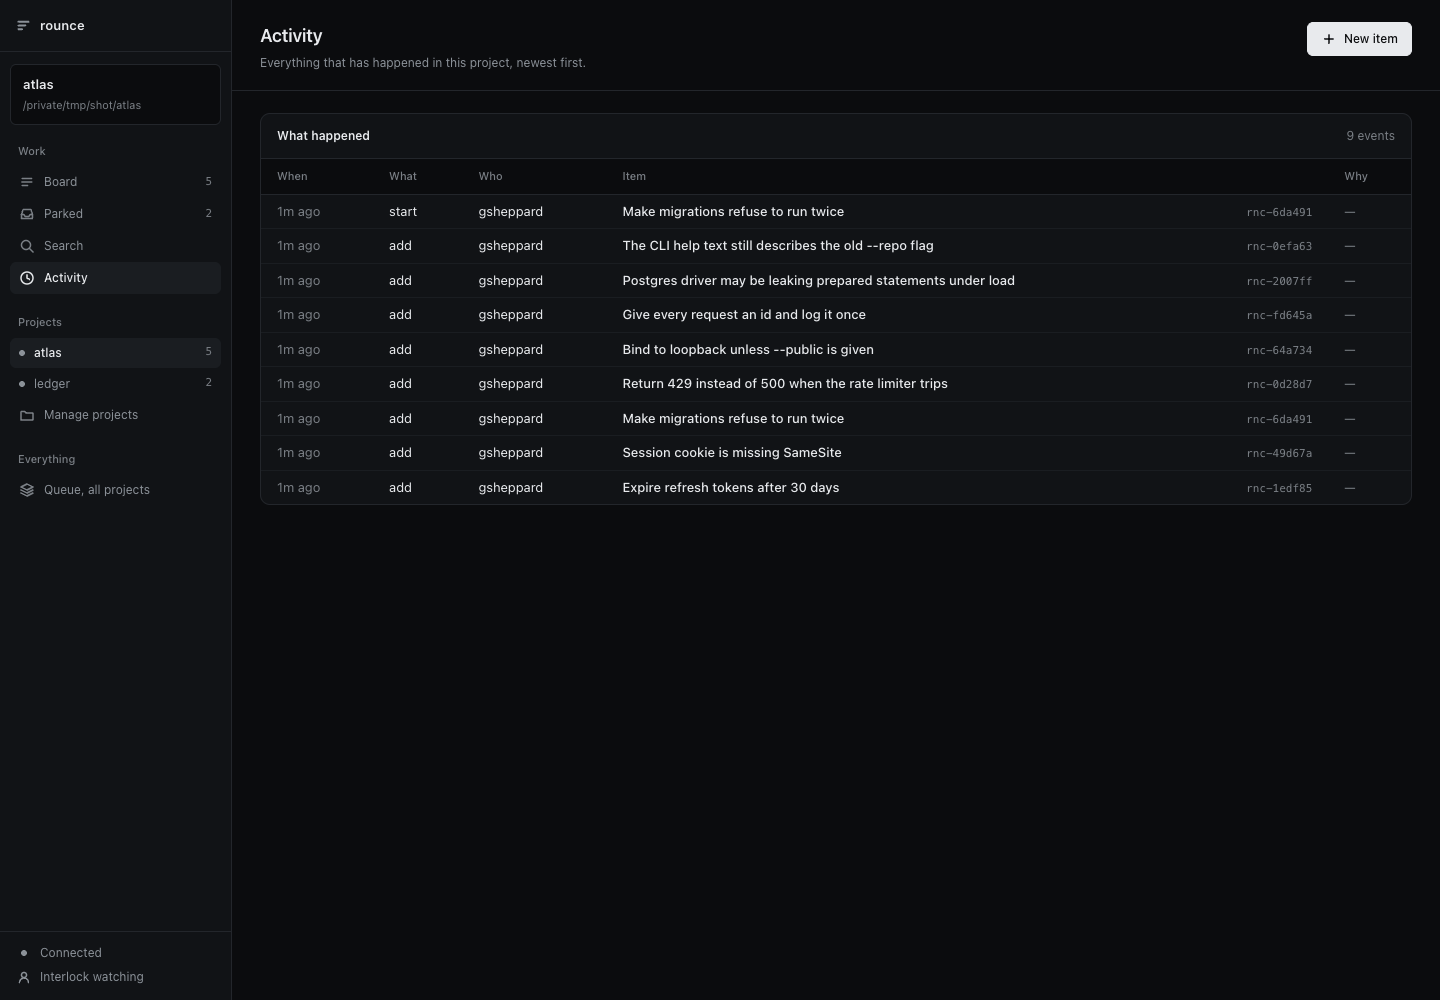
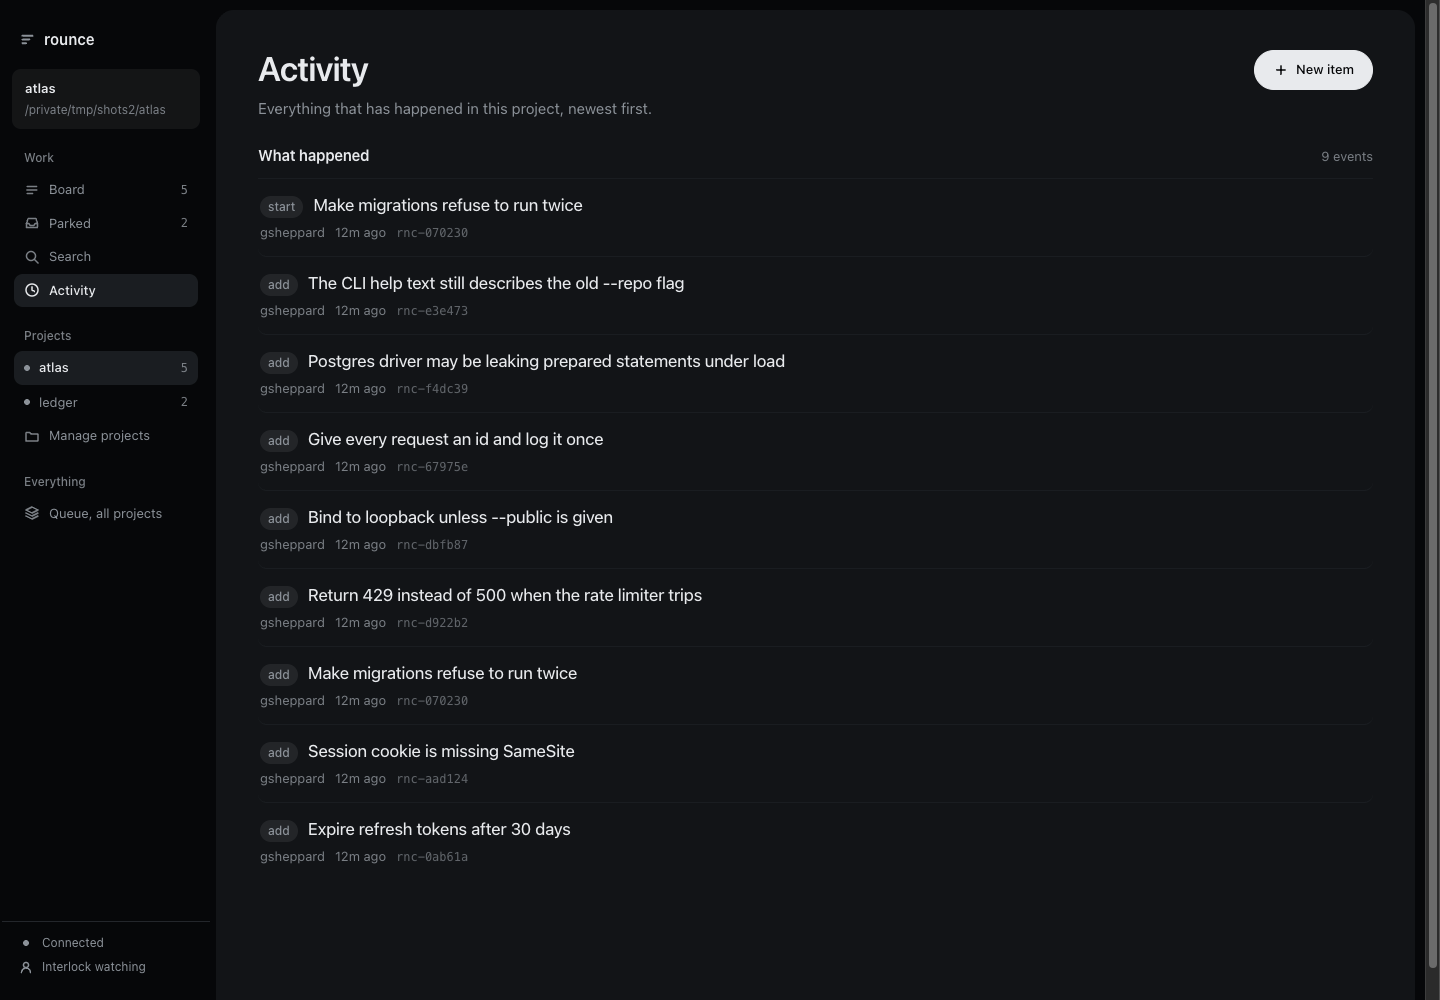
style(dash): one row shape across every page, and no native checkboxes
Finishing what the board started. Search, activity, the pen, the merged
cross-project queue and the project registry were all still tables with
header rows, so the board spoke one language and every other page spoke
the old one -- which is worse than either, because it reads as a redesign
somebody abandoned halfway.

They are the same row now: the figure, the title, and one quiet second line
carrying whatever that page needs -- the field a search matched and the text
around it, the actor and reason on an event, the directory and counts on a
project. That is the point of having one row shape: the second line varies,
the shape does not.

Three tables are left and they stay: the item's Detail block, which is a
definition list, its History, and the tree -- where the indentation IS the
structure. A table is right when the data is genuinely a grid; it was wrong
for five lists of objects.

Checkboxes got the treatment selects got earlier: the native control on a
dark page is a light square belonging to no design here. The tick is two
rotated borders, since  forbids fetching an image for one.

diff --git a/internal/dash/templates/projects.html b/internal/dash/templates/projects.html
@@ -12,41 +12,32 @@
     <h2>Tracked projects</h2>
     <span class="hint">{{len .Data}} registered</span>
   </div>
-  <div class="table-wrap">
-  <table>
-  <thead><tr><th>Project</th><th>Directory</th><th class="right">Workable</th><th class="right">Parked</th><th class="right">Actions</th></tr></thead>
-  <tbody>
-  {{range .Data}}<tr>
-  <td>
-    <div class="who">
-      <span class="avatar">{{initial .Name}}</span>
-      <div>
-        <b>{{.Name}}</b>{{if .Active}} {{template "state-tag" (tag "workable" "open")}}{{end}}
-        {{if .Err}}<div class="sub">{{.Err}}</div>{{end}}
-      </div>
-    </div>
-  </td>
-  <td class="path">{{.Dir}}</td>
-  <td class="right score">{{if .Err}}<span class="faint">—</span>{{else}}{{.Ready}}{{end}}</td>
-  <td class="right">{{if .Err}}<span class="faint">—</span>{{else}}{{.Backlog}}{{end}}</td>
-  <td class="right"><div class="acts">
-    <a class="btn btn-sm" href="{{if .Active}}/{{else}}/p/{{.Name}}{{end}}">Open board</a>
-    {{if $p.Writable}}<form method="post" action="/do/project-forget">
-      <input type="hidden" name="csrf" value="{{$p.CSRF}}">
+  <ol class="queue">
+  {{range .Data}}<li class="qrow">
+    <span class="avatar">{{initial .Name}}</span>
+    <span class="qbody">
+      <span class="qline">
+        <span class="title">{{.Name}}</span>
+        {{if .Active}}{{template "state-tag" (tag "workable" "open")}}{{end}}
+      </span>
+      <span class="qmeta">
+        <span class="path">{{.Dir}}</span>
+        {{if .Err}}<span class="qwhy">{{.Err}}</span>
+        {{else}}<span>{{.Ready}} workable · {{.Backlog}} parked</span>{{end}}
+      </span>
+    </span>
+    <span class="qacts">
+      <a class="btn btn-sm" href="{{if .Active}}/{{else}}/p/{{.Name}}{{end}}">Open board</a>
+      {{if $p.Writable}}<form method="post" action="/do/project-forget">
+        <input type="hidden" name="csrf" value="{{$p.CSRF}}">
 <input type="hidden" name="project" value="{{$p.Project}}"><input type="hidden" name="prefix" value="{{$p.Prefix}}">
-      <input type="hidden" name="path" value="{{.Path}}">
-      <button type="submit" class="btn btn-sm btn-danger">Remove</button>
-    </form>{{end}}
-  </div></td>
-  </tr>
-  {{else}}<tr><td colspan="5"><div class="blank">
-    {{template "icon-folder"}}
-    <h3>No projects registered</h3>
-    <p>Run <code>rounce init</code> in a repository and it registers itself. Or add one below.</p>
-  </div></td></tr>
-  {{end}}</tbody>
-  </table>
-  </div>
+        <input type="hidden" name="path" value="{{.Path}}">
+        <button type="submit" class="btn btn-sm btn-danger">Remove</button>
+      </form>{{end}}
+    </span>
+  </li>
+  {{else}}<li class="qempty">No projects registered. Run <code>rounce init</code> in a repository and it registers itself, or add one below.</li>
+  {{end}}</ol>
 </div>
 
 {{if $p.Writable}}

diff --git a/internal/dash/testdata/tree.golden.html b/internal/dash/testdata/tree.golden.html
@@ -850,6 +850,47 @@ tbody tr:hover td { background: color-mix(in srgb, var(--fg) 4%, transparent); }
   }
   .qrow .qacts { opacity: 1; }
 }
+
+/* Row variants for the pages that are not the board: a group heading in the
+   pen, an event kind in the log, the repository name in the merged queue,
+   and the matched text under a search hit. Same row, different second line
+   -- which is the point of having one row shape at all. */
+.qgroup {
+  list-style: none; padding: 22px 2px 8px;
+  font-size: var(--text-sm); color: var(--fg-faint);
+}
+.qempty { list-style: none; padding: 20px 2px; color: var(--fg-faint); font-size: var(--text-sm); }
+.qline { display: flex; align-items: baseline; gap: 10px; flex-wrap: wrap; }
+.qkind {
+  font-size: var(--text-xs); font-weight: 500; color: var(--fg-muted);
+  background: color-mix(in srgb, var(--fg) 8%, transparent);
+  padding: 2px 8px; border-radius: 999px; flex: none;
+}
+.qwhy { color: var(--fg-muted); }
+.qrepo { color: var(--fg-muted); font-weight: 500; }
+.qsnip {
+  margin-top: 6px; font-family: var(--mono); font-size: var(--text-sm);
+  color: var(--fg-faint); line-height: 1.5;
+}
+
+/* A native checkbox is the same problem the native select was: on a dark
+   page the OS draws a light square that belongs to no design here. */
+input[type="checkbox"] {
+  appearance: none; -webkit-appearance: none;
+  width: 16px; height: 16px; flex: none; padding: 0;
+  border: 1.5px solid var(--fg-faint); border-radius: 5px;
+  background: none; cursor: pointer; position: relative;
+  transition: background var(--tempo) ease, border-color var(--tempo) ease;
+}
+input[type="checkbox"]:checked { background: var(--fg); border-color: var(--fg); }
+/* The tick is two borders rotated, for the same reason the select caret is:
+   DASH-05 forbids fetching an image for it. */
+input[type="checkbox"]:checked::after {
+  content: ""; position: absolute; left: 4.5px; top: 1px;
+  width: 4px; height: 8px; border: solid var(--bg);
+  border-width: 0 2px 2px 0; transform: rotate(45deg);
+}
+label.inline { display: inline-flex; align-items: center; gap: 8px; cursor: pointer; }
 </style>
 </head>
 <body>

diff --git a/internal/dash/style.css b/internal/dash/style.css
@@ -842,3 +842,44 @@ tbody tr:hover td { background: color-mix(in srgb, var(--fg) 4%, transparent); }
   }
   .qrow .qacts { opacity: 1; }
 }
+
+/* Row variants for the pages that are not the board: a group heading in the
+   pen, an event kind in the log, the repository name in the merged queue,
+   and the matched text under a search hit. Same row, different second line
+   -- which is the point of having one row shape at all. */
+.qgroup {
+  list-style: none; padding: 22px 2px 8px;
+  font-size: var(--text-sm); color: var(--fg-faint);
+}
+.qempty { list-style: none; padding: 20px 2px; color: var(--fg-faint); font-size: var(--text-sm); }
+.qline { display: flex; align-items: baseline; gap: 10px; flex-wrap: wrap; }
+.qkind {
+  font-size: var(--text-xs); font-weight: 500; color: var(--fg-muted);
+  background: color-mix(in srgb, var(--fg) 8%, transparent);
+  padding: 2px 8px; border-radius: 999px; flex: none;
+}
+.qwhy { color: var(--fg-muted); }
+.qrepo { color: var(--fg-muted); font-weight: 500; }
+.qsnip {
+  margin-top: 6px; font-family: var(--mono); font-size: var(--text-sm);
+  color: var(--fg-faint); line-height: 1.5;
+}
+
+/* A native checkbox is the same problem the native select was: on a dark
+   page the OS draws a light square that belongs to no design here. */
+input[type="checkbox"] {
+  appearance: none; -webkit-appearance: none;
+  width: 16px; height: 16px; flex: none; padding: 0;
+  border: 1.5px solid var(--fg-faint); border-radius: 5px;
+  background: none; cursor: pointer; position: relative;
+  transition: background var(--tempo) ease, border-color var(--tempo) ease;
+}
+input[type="checkbox"]:checked { background: var(--fg); border-color: var(--fg); }
+/* The tick is two borders rotated, for the same reason the select caret is:
+   DASH-05 forbids fetching an image for it. */
+input[type="checkbox"]:checked::after {
+  content: ""; position: absolute; left: 4.5px; top: 1px;
+  width: 4px; height: 8px; border: solid var(--bg);
+  border-width: 0 2px 2px 0; transform: rotate(45deg);
+}
+label.inline { display: inline-flex; align-items: center; gap: 8px; cursor: pointer; }

diff --git a/internal/dash/templates/all.html b/internal/dash/templates/all.html
@@ -7,29 +7,32 @@
 {{$p := .}}{{with .Data}}
 <div class="panel">
 <div class="panel-head"><h2>Ranked across {{.RepoCount}} registered {{if eq .RepoCount 1}}repository{{else}}repositories{{end}}</h2></div>
-<div class="table-wrap"><table class="queue">
-<thead><tr><th>Repository</th><th>Score</th><th>Item</th><th></th></tr></thead>
-<tbody>
-{{range .Items}}<tr>
-<td>{{.Repository}}</td>
-<td class="score">{{.Score}}</td>
-<td><span class="title">{{.Title}}</span></td>
-<td class="id-cell"><span class="id">{{.ID}}</span></td>
-</tr>
-{{else}}<tr><td colspan="4" class="faint">Nothing is workable in any registered repository.</td></tr>
-{{end}}</tbody>
-</table></div>
+<ol class="queue">
+{{range .Items}}<li class="qrow">
+  <span class="qscore">{{.Score}}</span>
+  <span class="qbody">
+    <span class="title">{{.Title}}</span>
+    <span class="qmeta">
+      <span class="qrepo">{{.Repository}}</span>
+      <span class="id">{{.ID}}</span>
+    </span>
+  </span>
+</li>
+{{else}}<li class="qempty">Nothing is workable in any registered repository.</li>
+{{end}}</ol>
 </div>
 
 {{if .Errors}}
 <div class="panel">
 <div class="panel-head"><h2>Unreadable</h2></div>
-<div class="table-wrap"><table class="queue">
-<thead><tr><th>Repository</th><th>Problem</th></tr></thead>
-<tbody>
-{{range .Errors}}<tr><td>{{.Repo}}</td><td>{{.Message}}</td></tr>
-{{end}}</tbody>
-</table></div>
+<ol class="queue">
+{{range .Errors}}<li class="qrow stopped">
+  <span class="qbody">
+    <span class="title">{{.Repo}}</span>
+    <span class="qmeta">{{.Message}}</span>
+  </span>
+</li>
+{{end}}</ol>
 </div>
 {{end}}
 {{end}}{{template "foot"}}{{end}}

diff --git a/internal/dash/templates/backlog.html b/internal/dash/templates/backlog.html
@@ -8,21 +8,22 @@
 
 <div class="panel">
 <div class="panel-head"><h2>Parked items</h2></div>
-<div class="table-wrap"><table class="backlog queue">
-<thead><tr><th>Item</th><th></th><th>Noticed</th>{{if $p.Writable}}<th class="right">Act</th>{{end}}</tr></thead>
-<tbody>
-{{range .}}{{if .NewGroup}}<tr class="group"><th colspan="4">{{.Type}}</th></tr>
-{{end}}<tr>
-<td><a class="title" href="{{$p.Prefix}}/item/{{.ID}}">{{.Title}}</a></td>
-<td class="id-cell"><span class="id">{{.ID}}</span></td>
-<td class="faint">{{ago .CreatedAt}}</td>
-{{if $p.Writable}}<td class="right"><div class="acts">
-  {{template "action" (act $p "promote" .ID "Promote" "/backlog" false)}}
-  {{template "action" (act $p "drop" .ID "Drop" "/backlog" true)}}
-</div></td>{{end}}
-</tr>
-{{else}}<tr><td colspan="4" class="faint">Nothing parked. Anything an agent notices but should not act on lands here.</td></tr>
-{{end}}</tbody>
-</table></div>
+<ol class="queue">
+{{range .}}{{if .NewGroup}}<li class="qgroup">{{.Type}}</li>
+{{end}}<li class="qrow">
+  <span class="qbody">
+    <a class="title" href="{{$p.Prefix}}/item/{{.ID}}">{{.Title}}</a>
+    <span class="qmeta">
+      <span>noticed {{ago .CreatedAt}}</span>
+      <span class="id">{{.ID}}</span>
+    </span>
+  </span>
+  {{if $p.Writable}}<span class="qacts">
+    {{template "action" (act $p "promote" .ID "Promote" "/backlog" false)}}
+    {{template "action" (act $p "drop" .ID "Drop" "/backlog" true)}}
+  </span>{{end}}
+</li>
+{{else}}<li class="qempty">Nothing parked. Anything an agent notices but should not act on lands here.</li>
+{{end}}</ol>
 </div>
 {{end}}{{template "foot"}}{{end}}

diff --git a/internal/dash/templates/search.html b/internal/dash/templates/search.html
@@ -24,19 +24,21 @@
     <span class="hint">{{len .Results}} match{{if ne (len .Results) 1}}es{{end}} for “{{.Query}}”, best first</span>
   </div>
   {{if .Results}}
-  <div class="table-wrap"><table>
-  <thead><tr><th>Score</th><th>Item</th><th></th><th>Matched</th><th>State</th><th>Touches</th></tr></thead>
-  <tbody>
-  {{range .Results}}<tr>
-  <td class="score">{{.Score}}</td>
-  <td><a class="title" href="{{$p.Prefix}}/item/{{.ID}}">{{.Title}}</a></td>
-  <td class="id-cell"><span class="id">{{.ID}}</span></td>
-  <td class="faint snippet">{{.MatchedIn}}{{if and .Snippet (ne .MatchedIn "title")}}<div class="sub">{{.Snippet}}</div>{{end}}</td>
-  <td>{{template "state-tag" (tag (state (printf "%s" .Status) false) (printf "%s" .Status))}}</td>
-  <td class="path">{{if .Paths}}{{.Paths}}{{else}}<span class="faint">not declared</span>{{end}}</td>
-  </tr>
-  {{end}}</tbody>
-  </table></div>
+  <ol class="queue">
+  {{range .Results}}<li class="qrow">
+    <span class="qscore">{{.Score}}</span>
+    <span class="qbody">
+      <a class="title" href="{{$p.Prefix}}/item/{{.ID}}">{{.Title}}</a>
+      <span class="qmeta">
+        {{template "state-tag" (tag (state (printf "%s" .Status) false) (printf "%s" .Status))}}
+        <span>matched in {{.MatchedIn}}</span>
+        {{if .Paths}}<span class="path">{{.Paths}}</span>{{end}}
+        <span class="id">{{.ID}}</span>
+      </span>
+      {{if and .Snippet (ne .MatchedIn "title")}}<span class="qsnip">{{.Snippet}}</span>{{end}}
+    </span>
+  </li>
+  {{end}}</ol>
   {{else}}
   <div class="blank">
     {{template "icon-search"}}

diff --git a/internal/dash/templates/activity.html b/internal/dash/templates/activity.html
@@ -14,19 +14,22 @@
     <span class="hint">{{len .Data}} event{{if ne (len .Data) 1}}s{{end}}</span>
   </div>
   {{if .Data}}
-  <div class="table-wrap"><table>
-  <thead><tr><th>When</th><th>What</th><th>Who</th><th>Item</th><th></th><th>Why</th></tr></thead>
-  <tbody>
-  {{range .Data}}<tr>
-  <td class="faint" title="{{.At}}">{{ago .At}}</td>
-  <td>{{.Kind}}</td>
-  <td>{{.Actor}}</td>
-  <td><a class="title" href="{{$p.Prefix}}/item/{{.ItemID}}">{{.Title}}</a></td>
-  <td class="id-cell"><span class="id">{{.ItemID}}</span></td>
-  <td class="faint">{{if .Reason}}{{.Reason}}{{else}}—{{end}}</td>
-  </tr>
-  {{end}}</tbody>
-  </table></div>
+  <ol class="queue">
+  {{range .Data}}<li class="qrow">
+    <span class="qbody">
+      <span class="qline">
+        <b class="qkind">{{.Kind}}</b>
+        <a class="title" href="{{$p.Prefix}}/item/{{.ItemID}}">{{.Title}}</a>
+      </span>
+      <span class="qmeta">
+        <span>{{.Actor}}</span>
+        <span title="{{.At}}">{{ago .At}}</span>
+        {{if .Reason}}<span class="qwhy">{{.Reason}}</span>{{end}}
+        <span class="id">{{.ItemID}}</span>
+      </span>
+    </span>
+  </li>
+  {{end}}</ol>
   {{else}}
   <div class="blank">
     {{template "icon-clock"}}
